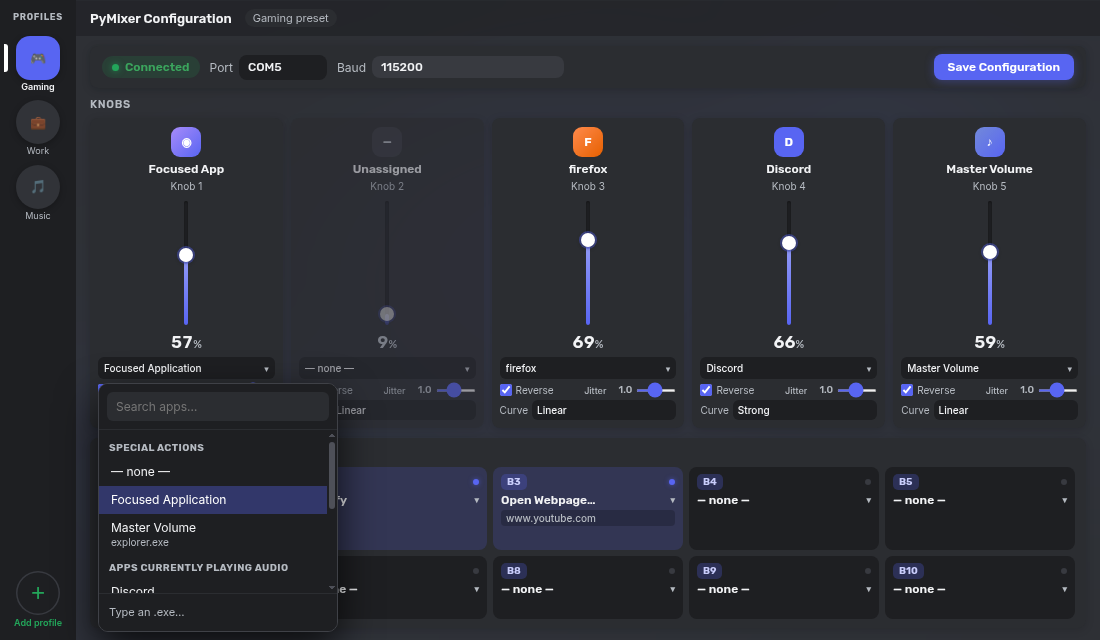
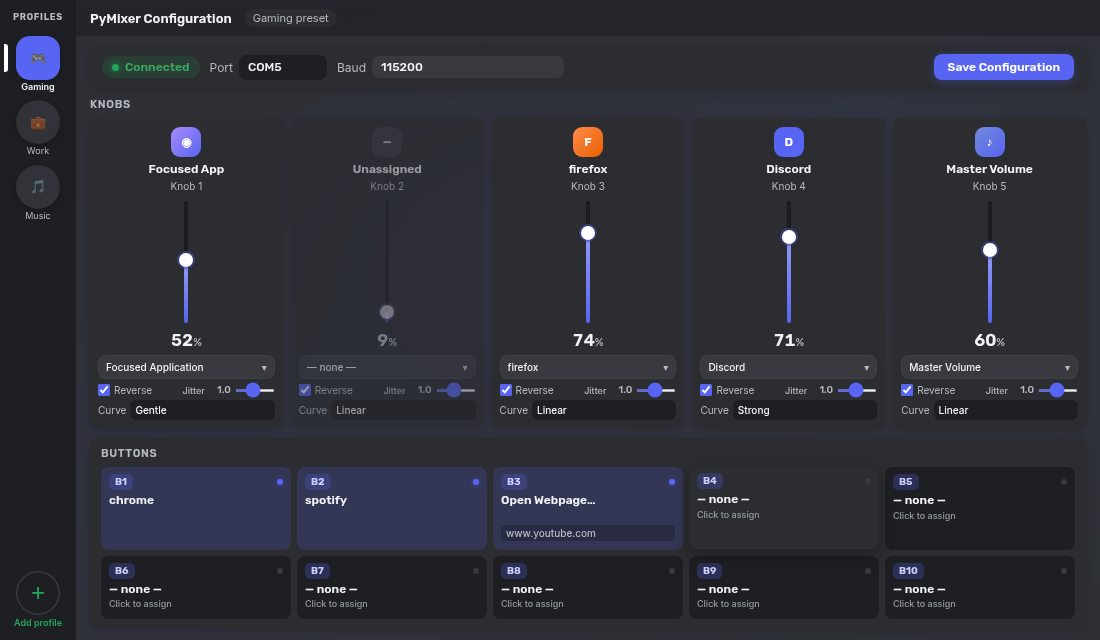
v1.3.4: whole button cards clickable + clearer knob pills
Make B1–B10 cards fully clickable (cursor, hover lift, focus ring,
Enter/Space) with Click to assign / Change hints. Keep the URL field
independently editable via stopPropagation. Style knob app triggers as
field-style pills with chevrons so the click target is obvious.

diff --git a/PyMixer/ui/style.css b/PyMixer/ui/style.css
@@ -217,8 +217,20 @@
   .bcard {
     background: var(--deep); border-radius: 8px; padding: 7px 8px;
     display: flex; flex-direction: column; gap: 3px;
+    cursor: pointer;
+    transition: background 0.15s ease, transform 0.15s ease, box-shadow 0.15s ease;
+    outline: none;
   }
   .bcard.live { background: rgba(88,101,242,0.18); }
+  .bcard:hover {
+    transform: translateY(-1px);
+    box-shadow: 0 6px 16px rgba(0,0,0,0.28);
+  }
+  .bcard.empty:hover { background: #2b2d31; }
+  .bcard.live:hover { background: rgba(88,101,242,0.28); }
+  .bcard:focus-visible {
+    box-shadow: 0 0 0 2px var(--panel), 0 0 0 4px var(--blurple);
+  }
   .btop { display: flex; align-items: center; justify-content: space-between; }
   .bid {
     font-family: var(--rubik); font-size: 10px; font-weight: 700; color: #c9cdfb;
@@ -237,6 +249,27 @@
     white-space: nowrap; overflow: hidden; text-overflow: ellipsis;
   }
   .bcard:not(.live) .burl { opacity: 0.4; }
+  /* Card assign/change hints */
+  .bhint {
+    display: flex; align-items: center; gap: 4px;
+    font-family: var(--inter); font-size: 9px; font-weight: 500;
+    color: var(--muted); line-height: 1.2; min-height: 12px;
+    pointer-events: none; user-select: none;
+  }
+  .bcard.empty .bhint { color: #949ba4; }
+  .bcard.live .bhint {
+    opacity: 0; transform: translateY(2px);
+    transition: opacity 0.12s ease, transform 0.12s ease;
+  }
+  .bcard.live:hover .bhint,
+  .bcard.live:focus-visible .bhint {
+    opacity: 1; transform: translateY(0); color: #c9cdfb;
+  }
+  .bhint-caret { font-size: 8px; color: #c9cdfb; }
+  /* Compact picker inside card — label is primary; caret shown via hint on assigned */
+  .bcard .app-picker.compact .ap-caret { display: none; }
+  .bcard .app-picker.compact .ap-btn { pointer-events: none; /* card handles open */ }
+  .bcard .burl-input { cursor: text; pointer-events: auto; }
 
   /* Interactive controls (pywebview / live UI) */
   html, body { width: 100%; height: 100%; min-width: 960px; min-height: 600px; }
@@ -364,18 +397,30 @@
   .app-picker { position: relative; width: 100%; z-index: 1; }
   .app-picker .ap-btn {
     width: 100%; display: flex; align-items: center; justify-content: space-between; gap: 6px;
-    background: var(--deep); color: var(--text); border: none; outline: none;
+    background: var(--elev); color: var(--text); border: none; outline: none;
     font-family: var(--inter); font-size: 10px; font-weight: 500;
-    padding: 5px 6px; border-radius: 6px; cursor: pointer; text-align: left;
+    padding: 6px 8px; border-radius: 8px; cursor: pointer; text-align: left;
+    box-shadow: inset 0 0 0 1px rgba(255,255,255,0.04);
+    transition: background 0.12s ease, box-shadow 0.12s ease;
+  }
+  .app-picker .ap-btn:hover {
+    background: #35373c;
+    box-shadow: inset 0 0 0 1px rgba(88,101,242,0.35);
+  }
+  .app-picker .ap-btn:focus-visible {
+    box-shadow: 0 0 0 2px var(--blurple);
   }
   .app-picker.compact .ap-btn {
     background: transparent; font-family: var(--rubik); font-size: 12px; font-weight: 600;
-    padding: 0;
+    padding: 0; box-shadow: none; border-radius: 0;
   }
+  .app-picker.compact .ap-btn:hover,
+  .app-picker.compact .ap-btn:focus-visible { background: transparent; box-shadow: none; }
   .app-picker .ap-label {
     overflow: hidden; text-overflow: ellipsis; white-space: nowrap; flex: 1;
   }
-  .app-picker .ap-caret { color: var(--muted); font-size: 9px; flex-shrink: 0; }
+  .app-picker .ap-caret { color: var(--muted); font-size: 10px; flex-shrink: 0; }
+  .app-picker:not(.compact) .ap-caret { color: #b5bac1; }
 
   /* Portal panel — fixed to viewport, fully opaque, escapes card stacking contexts */
   .ap-panel-portal,

diff --git a/PyMixer/ui/app.js b/PyMixer/ui/app.js
@@ -444,16 +444,48 @@
       const key = "B" + i;
       const value = (cfg.APP_MAPPINGS || {})[key] || "";
       const isUrl = looksLikeUrl(value);
+      const assigned = !!(value);
       const card = document.createElement("div");
-      card.className = "bcard" + (value ? " live" : "");
+      card.className = "bcard" + (assigned ? " live" : " empty");
+      card.tabIndex = 0;
+      card.setAttribute("role", "button");
+      card.setAttribute(
+        "aria-label",
+        assigned ? key + " assigned — press Enter to change" : key + " — press Enter to assign"
+      );
       card.innerHTML = `
-        <div class="btop"><span class="bid">${key}</span><span class="bdot ${value ? "on" : ""}"></span></div>
+        <div class="btop"><span class="bid">${key}</span><span class="bdot ${assigned ? "on" : ""}"></span></div>
       `;
       const url = document.createElement("input");
       url.className = "burl-input" + (isUrl ? " show" : "");
       url.dataset.url = key;
       url.placeholder = "URL…";
       url.value = isUrl ? value : "";
+      // Keep URL independently clickable / typeable
+      ["click", "mousedown", "mouseup", "keydown", "keyup"].forEach((ev) => {
+        url.addEventListener(ev, (e) => e.stopPropagation());
+      });
+
+      const hint = document.createElement("div");
+      hint.className = "bhint";
+      hint.innerHTML = assigned
+        ? '<span class="bhint-text">Change</span><span class="bhint-caret">▾</span>'
+        : '<span class="bhint-text">Click to assign</span>';
+
+      const syncCardChrome = (v) => {
+        const on = !!v;
+        card.classList.toggle("live", on);
+        card.classList.toggle("empty", !on);
+        card.querySelector(".bdot").classList.toggle("on", on);
+        card.setAttribute(
+          "aria-label",
+          on ? key + " assigned — press Enter to change" : key + " — press Enter to assign"
+        );
+        hint.innerHTML = on
+          ? '<span class="bhint-text">Change</span><span class="bhint-caret">▾</span>'
+          : '<span class="bhint-text">Click to assign</span>';
+      };
+
       const sel = window.PyMixerAppPicker.create({
         special: BUTTON_SPECIAL,
         current: isUrl ? "__url__" : value,
@@ -466,11 +498,29 @@
           const show = v === "__url__";
           url.classList.toggle("show", show);
           if (!show) url.value = "";
-          card.classList.toggle("live", !!v);
-          card.querySelector(".bdot").classList.toggle("on", !!v);
+          syncCardChrome(v);
         },
       });
+
+      const openPicker = () => {
+        if (typeof sel.open === "function") sel.open(card);
+      };
+
+      card.addEventListener("click", (e) => {
+        if (url.contains(e.target)) return;
+        e.preventDefault();
+        openPicker();
+      });
+      card.addEventListener("keydown", (e) => {
+        if (e.target === url) return;
+        if (e.key === "Enter" || e.key === " ") {
+          e.preventDefault();
+          openPicker();
+        }
+      });
+
       card.appendChild(sel);
+      card.appendChild(hint);
       card.appendChild(url);
       root.appendChild(card);
     }

diff --git a/PyMixer/ui/app_picker.js b/PyMixer/ui/app_picker.js
@@ -241,7 +241,7 @@
             e.stopPropagation();
             showAll = true;
             renderList();
-            positionPanel(panel, btn);
+            positionPanel(panel, openTrigger || btn);
           });
           list.appendChild(exp);
           return;
@@ -273,7 +273,7 @@
       onChange(value);
     }
 
-    function open() {
+    function open(anchor) {
       if (openRoot === root) {
         closeAppPicker();
         return;
@@ -285,10 +285,11 @@
       document.body.appendChild(panel);
       openRoot = root;
       openPanel = panel;
-      openTrigger = btn;
+      var trigger = anchor || btn;
+      openTrigger = trigger;
 
       renderList();
-      positionPanel(panel, btn);
+      positionPanel(panel, trigger);
 
       var search = panel.querySelector(".ap-search");
       search.value = "";
@@ -296,7 +297,7 @@
 
       search.addEventListener("input", function () {
         renderList();
-        positionPanel(panel, btn);
+        positionPanel(panel, openTrigger || btn);
       });
       search.addEventListener("keydown", function (e) {
         if (e.key === "ArrowDown") {
@@ -322,7 +323,7 @@
       panel.querySelector(".ap-manual-toggle").addEventListener("click", function (e) {
         e.stopPropagation();
         manualRow.classList.toggle("show");
-        positionPanel(panel, btn);
+        positionPanel(panel, openTrigger || btn);
         if (manualRow.classList.contains("show")) panel.querySelector(".ap-manual-input").focus();
       });
       panel.querySelector(".ap-manual-ok").addEventListener("click", function (e) {
@@ -348,10 +349,12 @@
 
     btn.addEventListener("click", function (e) {
       e.stopPropagation();
-      open();
+      open(compact ? (root.closest(".bcard") || btn) : btn);
     });
 
     root.appendChild(btn);
+    root.open = open;
+    root.getTrigger = function () { return btn; };
     // Panel is portaled to body on open — not a child of root
     return root;
   }

diff --git a/README.md b/README.md
@@ -8,6 +8,8 @@ Hardware volume mixer for an ESP32-S3 box + a Windows tray app.
 
 ## What's new in this fork
 
+- **v1.3.4** — whole button cards (B1–B10) are clickable with hover lift, focus ring, and Enter/Space; empty cards show **Click to assign**, assigned cards reveal **Change ▾** on hover; URL field stays independently editable; knob app triggers are clearer field-style pills with chevrons
+
 - **v1.3.3** — app picker portals to `document.body` (opaque Discord `#1e1f22`, high z-index) so it never clips inside channel/button cards; viewport clamp with 8px margins, flip up/down by available space, max-height + internal list scroll (search pinned), horizontal shift so it never overflows, near-full-width on very small windows
 
 - **Discord-dark settings window** with Rubik + Inter, thin vertical faders, round knobs, blurple Bloom glow, no borders (native Windows frame only — no fake title-bar)
